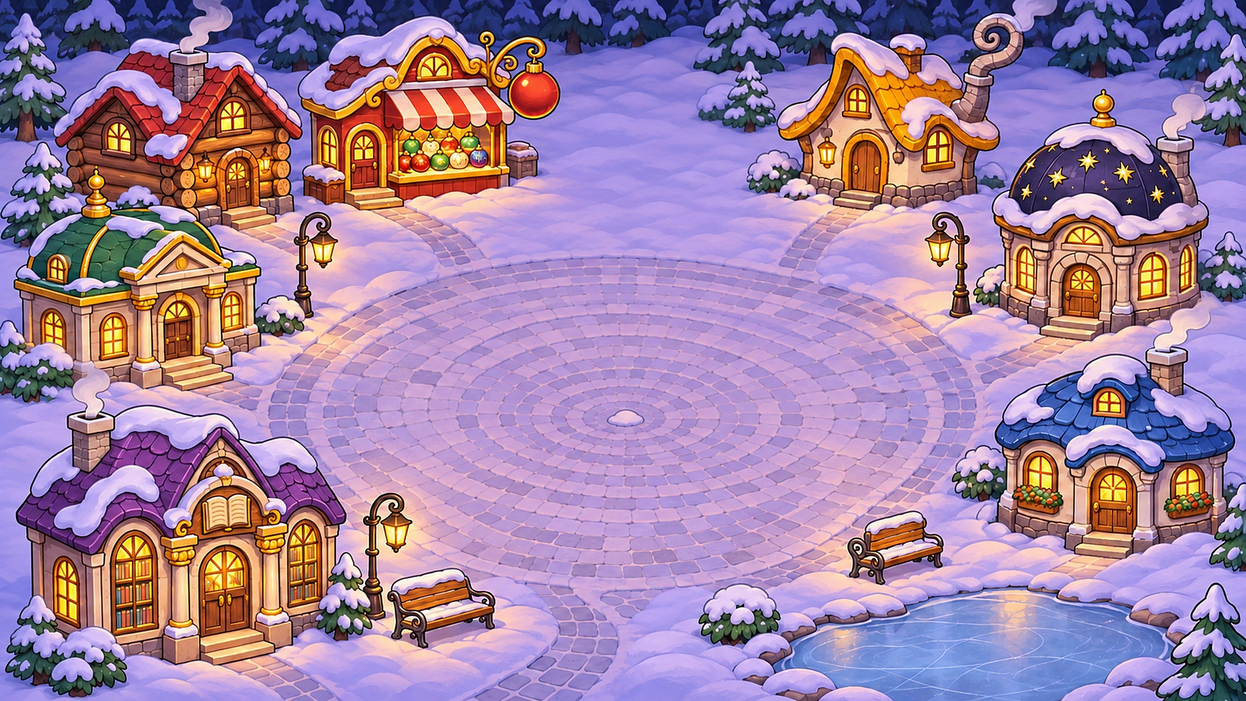
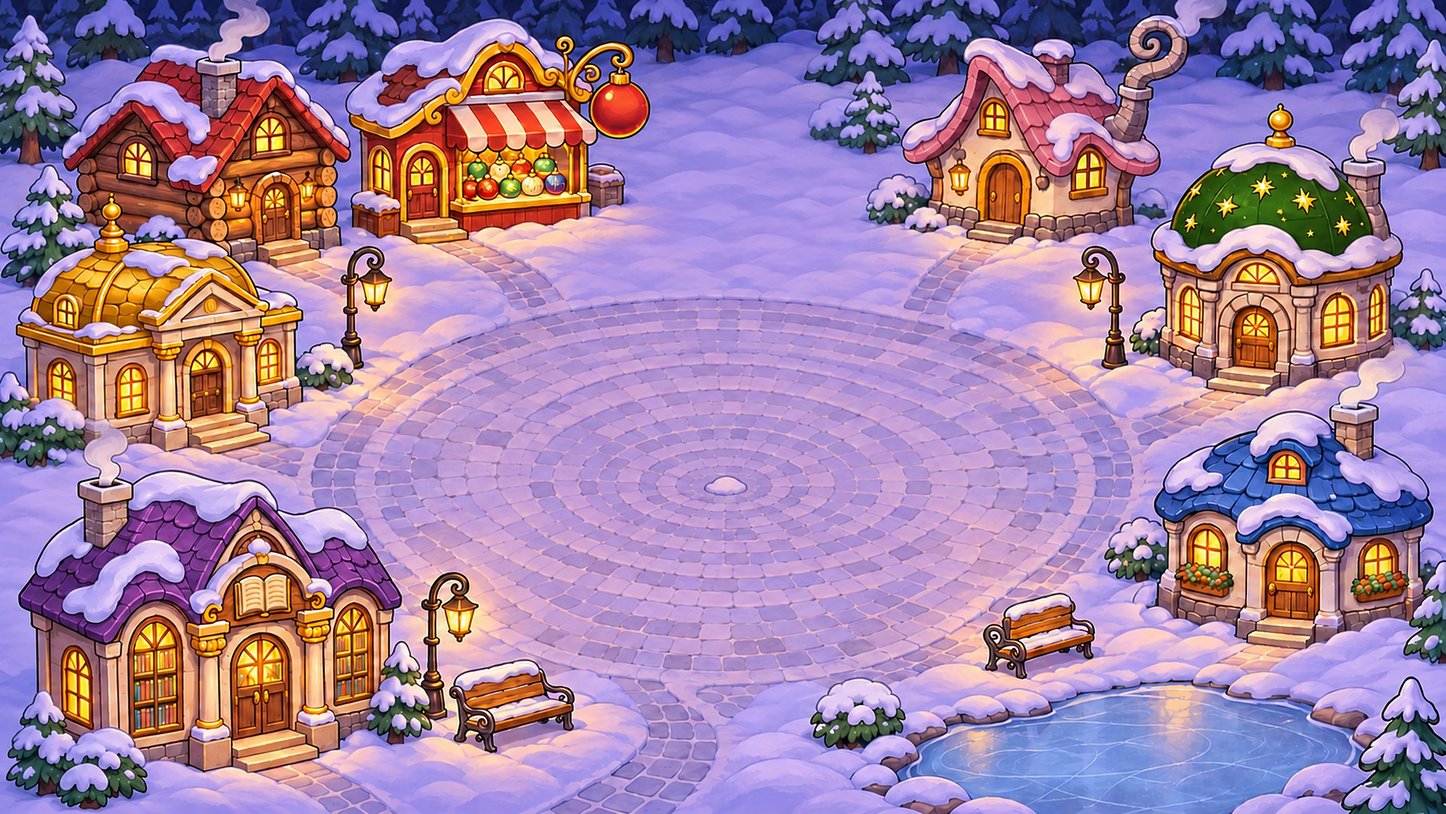
art: площадь с новыми крышами (СР2 золото, СР3 розовая, СР5 зелёная)

diff --git a/tools/pack.py b/tools/pack.py
@@ -189,9 +189,18 @@ if toys:
 if decor or props:
     atlas('things', {**decor, **props}, 1536)
 
-plaza = Image.open('mockup/assets/plaza.jpg' if os.path.exists('mockup/assets/plaza.jpg') else f'{OUT}/plaza.jpg')
-if os.path.exists('work/plaza-x2.png'):
-    plaza = Image.open('work/plaza-x2.png').convert('RGB')
-plaza.convert('RGB').save(f'{OUT}/plaza.jpg', quality=90, optimize=True, progressive=True)
+# площадь: апскейл владельца (refs/plaza-upscaled.*), иначе утверждённый вариант крыш «A» (24.11–26.11); ширина 3344 —
+# столько выдерживает бюджет текстур, а наезд камеры ×2 даёт около 1,15 экранного пикселя на пиксель фона
+PLAZA_W = 3344
+found = sorted(f for f in os.listdir('refs') if f.startswith('plaza-upscaled')) if os.path.isdir('refs') else []
+src = f'refs/{found[-1]}' if found else 'refs/plaza-roofs-A.png'
+plaza = Image.open(src).convert('RGB')
+small = plaza.width < PLAZA_W
+plaza = plaza.resize((PLAZA_W, round(plaza.height * PLAZA_W / plaza.width)), Image.LANCZOS)
+if small:
+    from PIL import ImageFilter
+    plaza = plaza.filter(ImageFilter.UnsharpMask(1.6, 70, 2))
+plaza.save(f'{OUT}/plaza.jpg', quality=90, optimize=True, progressive=True)
+print(f'площадь из {src}')
 total += plaza.width * plaza.height * 4 / 1048576
 print(f'площадь {plaza.width}×{plaza.height}; текстуры всего {total:.1f} МБ (бюджет 64)')
